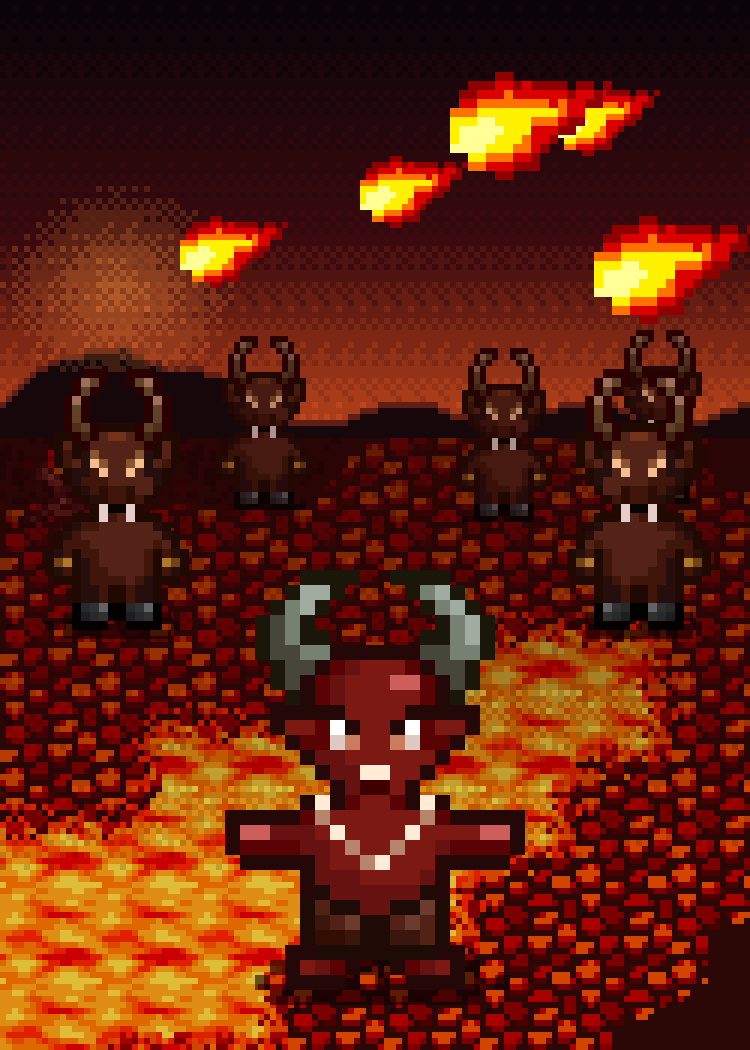
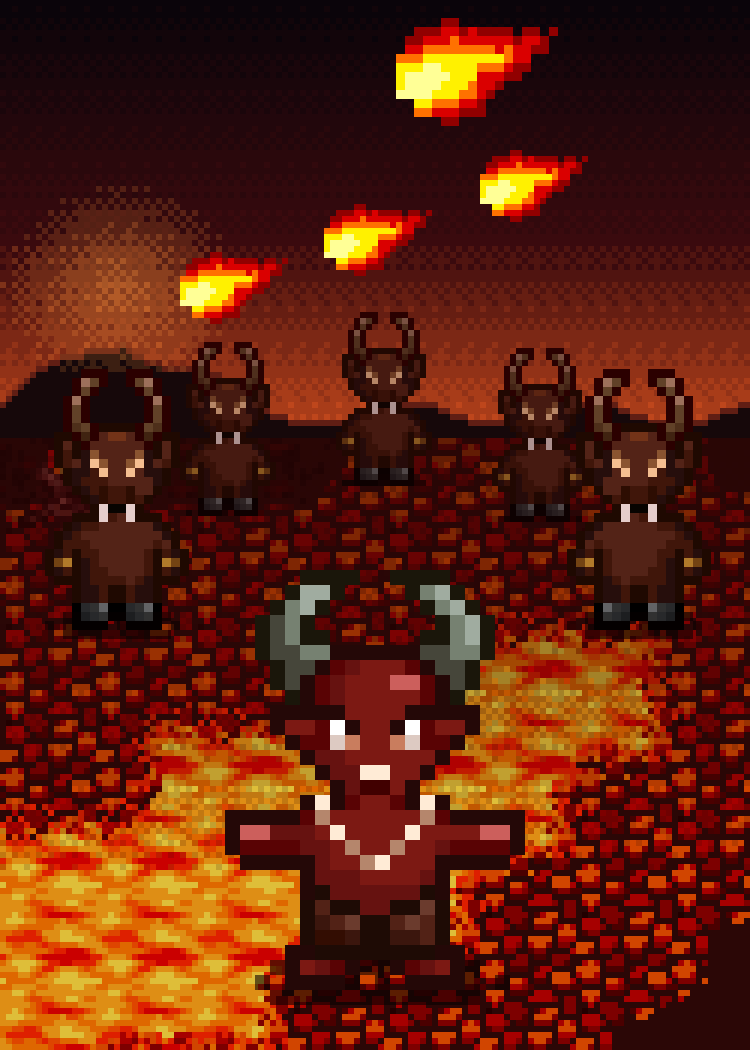
Runde 6: Überarbeitung nach Nutzer-Feedback (Zwischenstand)
Claude-Session: https://claude.ai/code/session_01TEnvTzH2xD44R6Unjv7vDo

diff --git a/data/sleeve-proposals/runde6/generator/s43_wheel_of_wisdom.py b/data/sleeve-proposals/runde6/generator/s43_wheel_of_wisdom.py
@@ -1,0 +1,142 @@
+# -*- coding: utf-8 -*-
+"""43 Wheel of Wisdom – Gegner „To Attain Divinity“ (Structure Deck), Held: Archibald, the Archmage.
+
+Neues Motiv (Nutzer-Feedback: aus den Elementen seiner eigenen Karte gebaut): Archibald steht in seiner
+dämmrigen Halle vor der großen Glasrosette seiner Base-Karte. Die fünf farbigen Felder zeigen – wie auf der Karte –
+die fünf Gestalten des Kartenmotivs (Schattengestalt mit rotem Auge, rothaarige Kämpferin, braunhaarige Schützin,
+Mann mit Hut und Pelzkragen, Hexe mit Spitzhut). Das Licht fällt in bunten Bahnen durch die Rosette auf den
+Parkettboden, auf dem der Erzmagier mit Stab und violetten Funkelsternen steht; zu seinen Füßen der violette
+Sternenstoff aus seinem Kartenmotiv.
+
+Quellen (alle Motive.xcf, Szene der Karte „Archibald, the Archmage“ = Sichtbar #43, Ebene 98, Lage 247,117):
+  Ebene 436 „ARCHMAGE“ + 435 „Archmage #9“ (Archibald mit Funkelsternen; Komposit pixelgleich mit der Szene,
+            354 deckende Pixel, 0 Abweichungen). NICHT Ebene 434 „Gandalf“ (graue Variante).
+  Ebene 444 „Archmage“ (farbige Glasfelder), 440 „Archmage #4“ (Bleiruten-Netz), 441 „Archmage #3“ (Ring),
+            439 „Archmage #1“ (Ring mit fünf Speichen) – die Rosette.
+  Ebene 438 „Archmage #6“ – die fünf Gestalten, die auf der Karte (vergrößert, halbtransparent) in den fünf
+            Feldern erscheinen; hier im Raster der Rosette, zu 75 % ins Glas gemischt.
+  Ebene 442 „Archmage #7“ – violetter Sternenstoff (Teppich zu Archibalds Füßen).
+  Sichtbar #43 (Ebene 98), Ausschnitt x 240–256, y 184–200: Parkettkachel der Halle (16×16, periodisch).
+Selbst gezeichnet: Mauer der Halle, steinerne Fensterlaibung, Lichtbahnen und farbiger Lichtfleck am Boden,
+Hinterleuchtung der Glasfelder, Kontaktschatten.
+
+Skalierung (Tiefenebenen):
+  Hintergrund (Mauer, Rosette 76×76 → 152×152, fünf Gestalten, Lichtbahnen)   – 2×-Raster (125×175)
+  Vordergrund (Archibald 25×31 → 125×155, Parkett, Sternenteppich, Lichtfleck)  – 5×-Raster (50×70)
+"""
+import math
+import numpy as np
+from kitH import *  # noqa
+
+BM = 'Motive'
+arch = sprite('o43_archibald', BM, [435, 436])                       # 25×31 inkl. Funkeln
+ros_box = (246, 106, 322, 182)
+glass = sprite('o43_glass', BM, [444], box=ros_box)                  # Farbfelder (nicht zugeschnitten: gleicher Ausschnitt)
+mesh = sprite('o43_mesh', BM, [440, 441, 439], box=ros_box)          # Bleiruten, Ring, Speichen
+# Die fünf Gestalten (Ebene 438), einzeln ausgeschnitten: (Schlüssel, Box in Leinwandkoordinaten)
+FIG_BOX = {'shadow': (259, 112, 281, 138), 'red': (286, 112, 309, 138), 'girl': (247, 138, 273, 165),
+           'hat': (295, 139, 320, 167), 'witch': (274, 150, 294, 181)}
+figs = {k: sprite('o43_fig_' + k, BM, [438], box=b) for k, b in FIG_BOX.items()}
+cloth = sprite('o43_cloth', BM, [442])                               # 128×77 Sternenstoff
+tile = sprite('o43_parquet', BM, [98], box=(240, 184, 256, 200))     # 16×16 Parkett (in der Szene abgedunkelt)
+
+# ================================================================== Hintergrund 2× (125×175)
+w2, h2 = grid(2)
+bg = rgba(w2, h2)
+bg[..., 3] = 255
+# Mauer: große Quader in dunklem Violett, versetzte Fugen
+WALL = [(34, 24, 46), (42, 30, 56), (26, 18, 36)]
+for y in range(h2):
+    for x in range(w2):
+        row = y // 6
+        off = 5 if row % 2 else 0
+        joint = (y % 6 == 5) or ((x + off) % 11 == 10)
+        c = WALL[2] if joint else (WALL[1] if (y % 6 == 0 or (x + off) % 11 == 0) else WALL[0])
+        bg[y, x, :3] = c
+RCX, RCY = 62.5, 50.0                        # Mitte der Rosette (y 100)
+R = 38.0
+# Fensterlaibung: zwei Steinringe um das Glas
+for y in range(h2):
+    for x in range(w2):
+        d = math.hypot(x + .5 - RCX, y + .5 - RCY)
+        if R - 0.5 <= d < R + 2.5:
+            bg[y, x, :3] = (96, 80, 104) if d < R + 1 else (70, 56, 80)
+        elif R + 2.5 <= d < R + 3.5:
+            bg[y, x, :3] = (18, 12, 26)
+# Hinterleuchtetes Glas: Farben aufgehellt
+gh, gw = glass.shape[:2]
+GX, GY = int(RCX - gw / 2), int(RCY - gh / 2)
+lit = glass.copy()
+lit[..., :3] = np.clip(glass[..., :3].astype(float) * 1.08 + 18, 0, 255).astype(np.uint8)
+put(bg, lit, GX, GY)
+# Die fünf Gestalten in ihren Feldern (Lage wie auf der Karte), 75 % ins Glas gemischt
+FIG_POS = {'shadow': (-17, -26), 'red': (7, -26), 'girl': (-27, 0), 'hat': (4, 1), 'witch': (-9, 8)}
+for k, (dx, dy) in FIG_POS.items():
+    f = figs[k]
+    fx, fy = int(RCX + dx), int(RCY + dy)
+    for j in range(f.shape[0]):
+        for i in range(f.shape[1]):
+            if f[j, i, 3]:
+                X, Y = fx + i, fy + j
+                if math.hypot(X + .5 - RCX, Y + .5 - RCY) < R - 1:
+                    bg[Y, X, :3] = (bg[Y, X, :3] * 0.25 + f[j, i, :3] * 0.75).astype(np.uint8)
+put(bg, mesh, GX, GY)                        # Bleiruten über allem
+dark_vignette(bg, strength=0.55, r0=0.3, cx=RCX, cy=RCY + 20)
+
+# Lichtbahnen: fünf breite, farbige, geditherte Bahnen vom Fenster schräg nach unten auf den Boden
+BEAMS = [((200, 200, 210), -0.55), ((230, 120, 60), 0.5), ((220, 70, 50), -0.9), ((70, 110, 200), 0.85),
+         ((110, 200, 150), 0.0)]
+for col, slope in BEAMS:
+    col = np.array(col, float)
+    for y in range(int(RCY + R * 0.6), h2):
+        t = (y - (RCY + R * 0.6)) / (h2 - RCY - R * 0.6)
+        cx = RCX + slope * R * 0.55 + slope * 30 * t
+        half = 5 + 7 * t
+        for x in range(int(cx - half), int(cx + half) + 1):
+            if 0 <= x < w2:
+                e = 1 - abs(x + .5 - cx) / half
+                a = 0.16 * e * (1 - 0.4 * t)
+                if a > BAY[y % 4, x % 4] * 0.35:
+                    bg[y, x, :3] = (bg[y, x, :3] * (1 - 0.22) + col * 0.22).astype(np.uint8)
+
+# ================================================================== Vordergrund 5× (50×70)
+w5, h5 = grid(5)
+fg = rgba(w5, h5)
+FLOOR = 60                                   # Oberkante des Bodens (y 300)
+T = np.clip(tile[..., :3].astype(float) * 1.35, 0, 255).astype(np.uint8)   # Parkett, etwas aufgehellt
+for y in range(FLOOR, h5):
+    for x in range(w5):
+        fg[y, x, :3] = T[(y - FLOOR) % 16, (x + 5) % 16]
+        fg[y, x, 3] = 255
+for x in range(w5):                          # Übergang Wand/Boden: Sockelleiste
+    fg[FLOOR, x, :3] = (22, 16, 30)
+# Sternenteppich (Ausschnitt aus dem Sternenstoff) als Läufer unter Archibald
+RUG = cloth[20:29, 40:70]
+rx0 = w5 // 2 - RUG.shape[1] // 2
+for j in range(RUG.shape[0]):
+    for i in range(RUG.shape[1]):
+        X, Y = rx0 + i, FLOOR + 2 + j
+        if 0 <= X < w5 and Y < h5 and RUG[j, i, 3]:
+            edge = i in (0, RUG.shape[1] - 1)
+            fg[Y, X, :3] = (40, 16, 70) if edge else RUG[j, i, :3]
+# farbiger Lichtfleck der Rosette auf Parkett und Teppich (zwei Stufen, gedithert)
+for y in range(FLOOR + 1, h5):
+    for x in range(w5):
+        d = math.hypot((x + .5 - 25) / 22, (y + .5 - (FLOOR + 5)) / 6)
+        if d < 1:
+            seg = int(((math.atan2(y - FLOOR - 5, x - 25) + math.pi) / (2 * math.pi)) * 5) % 5
+            col = np.array(BEAMS[seg][0], float)
+            q = 0.22 if d < 0.6 else 0.12
+            if BAY[y % 4, x % 4] < 0.8:
+                fg[y, x, :3] = (fg[y, x, :3] * (1 - q) + col * q).astype(np.uint8)
+ah, aw = arch.shape[:2]
+AX = w5 // 2 - aw // 2
+AFEET = FLOOR + 4                            # steht auf dem Teppich (y 320–325)
+for x in range(AX + 5, AX + aw - 3):
+    setp(fg, x, AFEET, (26, 10, 44))         # Kontaktschatten
+put(fg, arch, AX, AFEET - ah)
+
+cv = Canvas(W, H)
+blit(cv, bg, 2)
+blit(cv, fg, 5)
+print(save(cv, '43_wheel_of_wisdom.png'))

diff --git a/data/sleeve-proposals/runde6/generator/s18_sticky_fingers.py b/data/sleeve-proposals/runde6/generator/s18_sticky_fingers.py
@@ -32,7 +32,20 @@ lilly = sprite('o18_lilly', M, [973])                        # 18×25, = Sichtba
 # Sparkfly-Arbeiterin: Körper 160 + Flügel 158 (linke Biene), Königin: 177 Körper + 176 Beine + 175 Krone
 body = layer(R, 160)[244:276, 82:108].copy(); wing = layer(R, 158)[244:276, 82:108].copy()
 bb = bbox(X.over(body, wing)); body = body[bb[1]:bb[3], bb[0]:bb[2]]; wing = wing[bb[1]:bb[3], bb[0]:bb[2]]
-queen = compose(R, [175, 176, 177])
+red = layer(R, 159)[244:276, 82:108].copy()[bb[1]:bb[3], bb[0]:bb[2]]      # roter Fleck der Sparkfly Attendant
+att = body.copy(); att[red[..., 3] > 0] = red[red[..., 3] > 0]
+# Goldsack: vorderer Sack der Ebene 1379 „Wealth“ (oval freigestellt, Truhenglanz oben entfernt, Sackhals ergänzt)
+W_ = layer(M, 1379)[184:208, 126:154].copy()
+yy, xx = np.mgrid[184:208, 126:154]
+W_[((xx + 0.5 - 140) / 10) ** 2 + ((yy + 0.5 - 199) / 6.6) ** 2 > 1] = 0
+W_[(yy < 196) & (W_[..., 0] > 200)] = 0
+b_ = bbox(W_); sack0 = W_[b_[1]:b_[3], b_[0]:b_[2]]
+sack = np.zeros((sack0.shape[0] + 3, sack0.shape[1], 4), np.uint8); sack[3:] = sack0
+cx_ = sack.shape[1] // 2
+for (dx, dy, c) in [(-1, 0, (90, 57, 32)), (0, 0, (123, 83, 43)), (1, 0, (90, 57, 32)),
+                    (-1, 1, (109, 55, 21)), (0, 1, (157, 106, 55)), (1, 1, (109, 55, 21)),
+                    (-2, 2, (90, 57, 32)), (-1, 2, (162, 89, 44)), (0, 2, (157, 106, 55)), (1, 2, (162, 89, 44)), (2, 2, (90, 57, 32))]:
+    sack[dy, cx_ + dx] = list(c) + [255]
 chest = sprite('o18_chest', M, [1386])                      # Treasure Chest 24×16
 hall = layer(G, 663)                                        # „Rathaus aussen“ (320×240-Karte)
 
@@ -71,13 +84,20 @@ wings2 = rgba(125, 175)
 def bee(x, y, fl=False):
     b_, w_ = (flip(body), flip(wing)) if fl else (body, wing)
     put(wings2, w_, x, y); put(p2, b_, x, y)
-put(p2, queen, 86, 20)                                      # Königin (mit Hive's Crown) schwebt rechts über dem Platz
-# zwei Arbeiterinnen tragen die Schatztruhe vom Fenster zu Lilly hinab
-put(p2, chest, 22, 70)
-bee(14, 54); bee(32, 54)
+def carry(load, lx, ly, bees):
+    """Last zuerst, dann die Tiere darüber: ihre Beine greifen über die Oberkante der Last."""
+    put(p2, load, lx, ly)
+    for (b_, x, y, fl) in bees:
+        bs = flip(b_) if fl else b_
+        put(wings2, flip(wing) if fl else wing, x, y); put(p2, bs, x, y)
+# zwei Arbeiterinnen tragen die Schatztruhe (Beine auf dem Deckel)
+carry(chest, 23, 66, [(body, 14, 53, False), (body, 31, 53, True)])
+# eine Attendant (roter Fleck) trägt einen Goldsack vom Fenster herab, eine Arbeiterin einen zweiten
+carry(sack, 92, 51, [(att, 91, 38, False)])
+carry(sack, 78, 86, [(body, 77, 73, True)])
 # Funkeln der Treasure-Chest-Karte (Ebene 1384) um die Truhe
 spark = [p for p in parts(compose(M, [1384]), dil=0) if p.shape[0] >= 3]
-for sp, (x, y) in zip(spark, [(16, 74), (48, 72), (44, 88), (18, 88), (30, 94)]):
+for sp, (x, y) in zip(spark, [(17, 80), (50, 74), (46, 88), (20, 90), (34, 92)]):
     put(p2, sp, x, y)
 # Schatten der fliegenden Tiere auf dem Pflaster (1 Rasterpunkt dunkler, 2×)
 def shade(cx, cy, rx, ry):
@@ -85,7 +105,7 @@ def shade(cx, cy, rx, ry):
         for x in range(cx - rx, cx + rx + 1):
             if ((x - cx) / rx) ** 2 + ((y - cy) / ry) ** 2 <= 1 and 0 <= x < 125 and 0 <= y < 175:
                 cv.a[y * 2:y * 2 + 2, x * 2:x * 2 + 2] = (cv.a[y * 2:y * 2 + 2, x * 2:x * 2 + 2] * 0.6).astype(np.uint8)
-shade(34, 104, 14, 3); shade(97, 90, 9, 2)
+shade(35, 108, 13, 3); shade(101, 100, 7, 2); shade(87, 112, 7, 2)
 blit(cv, p2, 2)
 cv.paste(up(wings2, 2), 0, 0, alpha=0.7)                    # Flügel wie in den Kartenszenen durchscheinend (70 %)
 cv.paste(up(p2, 2), 0, 0)                                   # Körper über die Flügel

diff --git a/data/sleeve-proposals/runde6/generator/s23_hellfire_salvo.py b/data/sleeve-proposals/runde6/generator/s23_hellfire_salvo.py
@@ -3,7 +3,7 @@
 Held/Hauptmotiv: Baaliel, the Demon General (Base-Karte).
 
 Idee (Beschuss, Tiefenstaffelung): Baaliel steht groß und mittig vorn auf dunklem Basalt vor einem Lavastrom
-und gibt mit ausgebreiteten Armen den Feuerbefehl. Seine Höllenbatterie schießt eine Salve: fünf Feuerbälle
+und gibt mit ausgebreiteten Armen den Feuerbefehl. Seine Höllenbatterie schießt eine Salve: vier Feuerbälle
 (Karte „Fireball“ aus dem Deck) ziehen auf parallelen Bahnen schräg von rechts oben nach links unten – Kopf
 voran, Schweif hinterher, die fernen kleiner – auf den fernen Hügel links, an dem die Einschläge glühen.
 Horned Demons (Cover-Karte) in zwei Tiefen: zwei nahe als Ehrenwache links/rechts, drei ferne im Glutdunst.
@@ -18,7 +18,7 @@ Selbst gezeichnet: Himmelsverlauf (geordnetes Dithering), ferne Hügelsilhouette
                 um den Brand, Schatten.
 Skalierung (Tiefenebenen):
   Himmel, Hügel, Einschlagglut, 3 ferne Feuerbälle, 3 ferne Horned Demons, Lavaboden – 2×-Raster (125×175)
-  2 nahe Feuerbälle, 2 nahe Horned Demons – 3×-Raster (84×117) (deutlich vor/über den 2×-Dingen)
+  1 naher Feuerball, 2 nahe Horned Demons – 3×-Raster (84×117) (deutlich vor/über den 2×-Dingen)
   Baaliel 20×28 → 100×140 – 5× (Vordergrund; keine andere Figur auf seiner Höhe neben ihm)
 """
 import math
@@ -77,11 +77,11 @@ for y in range(TY - 26, TY + 6):
             q = dith(1 - d, x, y, 3) * 0.5
             bg[y, x, :3] = (bg[y, x, :3] * (1 - q) + np.array([255, 150, 60]) * q).astype(np.uint8)
 # ferne Feuerbälle der Salve, alle auf parallelen Bahnen nach links unten zum Hügel
-for (x, y) in ((TX + 10, TY - 20), (TX + 40, TY - 30), (TX + 72, TY - 42)):
+for (x, y) in ((30, 42), (54, 34), (80, 25)):
     put(bg, shot, x, y)
 # drei ferne Horned Demons im Glutdunst (dunkler), verteilt auf der Ebene
 fd = shade(demon, 0.7, (40, 6, 6))
-for FDX, FDY in ((44, 84), (84, 86), (110, 83)):
+for FDX, FDY in ((38, 85), (64, 80), (90, 86)):
     for xx in range(FDX - 7, FDX + 7):
         if 0 <= xx < GW and bay(xx, FDY) < 0.7: bg[FDY, xx, :3] = (bg[FDY, xx, :3] * 0.5).astype(np.uint8)
     put(bg, fd, FDX - demon.shape[1] // 2, FDY - demon.shape[0] + 1)
@@ -93,7 +93,7 @@ blit(cv, bg, 2)
 MW, MH = grid(3)
 mid = rgba(MW, MH)
 # nahe Feuerbälle oben rechts, parallel zu den fernen
-for (x, y) in ((50, 8), (66, 24)):
+for (x, y) in ((44, 2),):
     put(mid, shot, x, y)
 # zwei nahe Horned Demons links und rechts (Ehrenwache), Füße bei Zeile 70 (Leinwand y 210)
 for NDX in (13, 71):
